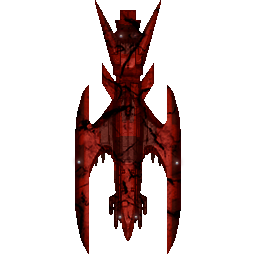
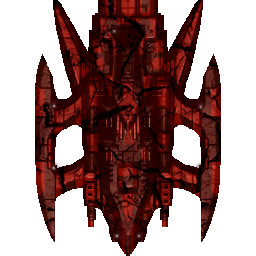
lvl 1 under construction

diff --git a/Level.py b/Level.py
@@ -12,7 +12,7 @@ warscreenwidth = 1440
 class Level:
     def __init__(self, levelnumber):
         if levelnumber == 0:
-            mobslist = [0,1,2,3,4,5,6,7,8,9,10,11,12,13,14,15]
+            mobslist = [0,1,2,3,4,5,6,7,8,9,10,11,12,13,14,15,16]
             Mobs.images.load_level(mobslist)
             self.end = False
             self.succes = False
@@ -97,15 +97,15 @@ class Level:
             self.textlist.append([100, "Level 1: Jupiter", 30, (0,150,0), (160,40), (warscreenwidth/2,100), (800,50)])
             self.textlist.append([150, "WARNING: ASTERIOD STORM DETECTED", 30, (200, 0, 0), (100, 40), (warscreenwidth / 2, 150), (warscreenwidth, 50)])
             self.textlist.append([200, "WARNING: ENEMY SHIPS DETECTED", 30, (200, 0, 0), (100, 40), (warscreenwidth / 2, 200),(warscreenwidth, 50)])
+            self.textlist.append([18300, "WARNING: LARGE ENEMY SHIP DETECTED", 30, (200, 0, 0), (100, 40), (warscreenwidth / 2, 100),(warscreenwidth, 50)])
+            self.textlist.append([18600, "SCANNING...", 30, (255, 255, 255), (100, 40), (warscreenwidth / 2, 50), (warscreenwidth, 100)])
+            self.textlist.append([18800, "SCORCH COMMAND SHIP: HEXAPOD", 30, (255, 255, 255), (100, 40), (warscreenwidth / 2, 100),(warscreenwidth, 50)])
 
             self.propslist.append([5000, 0, 900, 1, (540,767)])
             self.propslist.append([5500, 1, 600, 2, (675, 675)])
             self.propslist.append([9000, 2, 200, 2, (518, 520)])
             self.propslist.append([12000, 3, 800, 1, (240, 97)])
 
-
-            # Cruiser komt in scherm, opend vuur. stopt vuur, straved weg.
-          #  self.spawnlist.append([50, 13, warscreenwidth/2, 0, 0, 5, [(0, 0), (60,3,0,0), (240,2)], [((20,70,240), 4, 0, 5, 20), (4,5, 330), (4,5, 30)], 0])
 
             # 500 ticks: eerste aanval: fighters (horizontaal naar links)
             self.spawnlist.append([500, 9, warscreenwidth, 200, -4, 0, [(0, 0)], [(100, 3, 0)],0])
@@ -239,6 +239,51 @@ class Level:
             self.spawnlist.append([13200, 15, 500,  0, 0,2, [(0, 0)], [(100, 1, 0)], 250])
             self.spawnlist.append([13300, 15, 200,  0, 0,2, [(0, 0)], [(100, 1, 0)], 250])
 
+            # 13500 ticks: eenentwintigste aanval: destroyer (verticaal)
+            self.spawnlist.append([13500, 14, warscreenwidth/2, 0, 0, 2, [(0, 0)], [(100, 4, 0,3,15)], 350])
+
+            # 13900 ticks: tweeentwintigste aanval: fighters (driveby)
+            # en vultures (horizontaal naar rechts)
+            # en marauders (move, stop, charge, retreat)
+            # en cruiser (verticaal)
+            # en destroyers (verticaal)
+            self.spawnlist.append([13900, 9, 1400, 0, -2, 2, [(0,0)], [(100,3,0)],0])
+            self.spawnlist.append([13930, 9, 50, 0, 2, 2, [(0,0)], [(100,3,0)],0])
+            self.spawnlist.append([13960, 9, 400, 0, 2, 2, [(0, 0)], [(100, 3, 0)], 0])
+            self.spawnlist.append([13990, 9, 1300, 0, -2, 2, [(0, 0)], [(100, 3, 0)], 0])
+            self.spawnlist.append([14020, 9, 160, 0, 2, 2, [(0, 0)], [(100, 3, 0)], 0])
+            self.spawnlist.append([14050, 9, 800, 0, -2, 2, [(0, 0)], [(100, 3, 0)], 0])
+            self.spawnlist.append([14300, 15, 0, 200, 2, 0, [(0, 0)], [(100, 1, 0)], 0])
+            self.spawnlist.append([14400, 15, 0, 175, 2, 0, [(0, 0)], [(100, 1, 0)], 0])
+            self.spawnlist.append([14500, 15, 0, 150, 2, 0, [(0, 0)], [(100, 1, 0)], 0])
+            self.spawnlist.append([14600, 15, 0, 125, 2, 0, [(0, 0)], [(100, 1, 0)], 250])
+            self.spawnlist.append([14900, 11, 100, 0, 0, 4, [(0, 0), (40, 3, 0, 0), (100, 4), (178, 3, 0, -7)], [(100, 2, 0), [3, 5, -1]],0])
+            self.spawnlist.append([15200, 11, warscreenwidth/2, 0, 0, 4, [(0, 0), (40, 3, 0, 0), (100, 4), (178, 3, 0, -7)], [(100, 2, 0), [3, 5, -1]],300])
+            self.spawnlist.append([15600, 10, 850, 0, 0, 1, [(0, 0), (0, 0)], [(40, 2, 0)], 500])
+            self.spawnlist.append([16000, 14, 300, 0, 0, 2, [(0, 0)], [(100, 4, 0, 3, 15)], 0])
+            self.spawnlist.append([16300, 14, 1000, 0, 0, 2, [(0, 0)], [(100, 4, 0, 3, 15)], 350])
+
+            # 16700 ticks: drieentwintigste aanval: fighters (verticaal)
+            self.spawnlist.append([16700, 9, 700, 0, 0, 2, [(0, 0)], [(100, 3, 0)], 0])
+            self.spawnlist.append([16750, 9, 700, 0, 0, 2, [(0, 0)], [(100, 3, 0)], 0])
+            self.spawnlist.append([16750, 9, 600, 0, 0, 2, [(0, 0)], [(100, 3, 0)], 0])
+            self.spawnlist.append([16750, 9, 800, 0, 0, 2, [(0, 0)], [(100, 3, 0)], 0])
+            self.spawnlist.append([16800, 9, 700, 0, 0, 2, [(0, 0)], [(100, 3, 0)], 200])
+            self.spawnlist.append([16800, 9, 600, 0, 0, 2, [(0, 0)], [(100, 3, 0)], 0])
+            self.spawnlist.append([16800, 9, 800, 0, 0, 2, [(0, 0)], [(100, 3, 0)], 0])
+            self.spawnlist.append([16800, 9, 500, 0, 0, 2, [(0, 0)], [(100, 3, 0)], 0])
+            self.spawnlist.append([16800, 9, 900, 0, 0, 2, [(0, 0)], [(100, 3, 0)], 0])
+
+            # 17300 ticks: vierentwintigste aanval: vultures (move, strafe)
+            # en destroyer (naar rechts)
+            self.spawnlist.append([17300, 15, 750, 0, 0, 2, [(0, 0), (40, 2)], [(100, 1, 0)], 0])
+            self.spawnlist.append([17400, 15, 500, 0, 0, 2, [(0, 0), (40, 2)], [(100, 1, 0)], 0])
+            self.spawnlist.append([17500, 15, 1000, 0, 0, 2, [(0, 0), (40, 2)], [(100, 1, 0)], 0])
+            self.spawnlist.append([17600, 15, 500, 0, 0, 2, [(0, 0), (40, 2)], [(100, 1, 0)], 250])
+            self.spawnlist.append([17650, 14, 250, 0, 0, 2, [(0, 0)], [(100, 4, 0, 3, 15)], 350])
+
+            # 18300 ticks: aankondiging + eindbaas: Hexapod (zigzag)
+            self.spawnlist.append([19000, 12, 320, 0, 0, 6, [(0, 0), (60, 3, 0, 0), (150, 1)], [(100, 4, 0, 6, 15), (60, 1, 1)], 1000])
 
 
 
@@ -310,7 +355,7 @@ class Level:
            # self.spawnlist.append([5200, 12, 320, 0, 0, 6, [(0, 0), (60, 3,0,0), (150,1)], [(100, 4, 0, 6, 15), (60,1,1)], 1000])
 
             #level end
-            self.spawnlist.append([18000, -1])
+            self.spawnlist.append([30000, -1])
 
             ###################################################################################################
             #lijst wordt gesorteerd om op volgorde uit te kunnen voeren.

diff --git a/Mobs.py b/Mobs.py
@@ -15,11 +15,11 @@ warscreenwidth = 1440
 warscreenheight = 1080
 class Unitstats:
     def __init__(self):
-        self.deathsound = [0,0,0,2,2,2,5,5,5,3,6,4,9,7,8,4]
-        self.hitpoints = [10,10,10,30,30,30,60,60,60,40,350,140,1000,500, 650, 80]
-        self.gold = [0, 0, 0, 0, 0, 0, 0, 0, 0, 100, 800, 400, 2500, 1200, 1500, 200]
-        self.pointvalue = [50,50,50,100,100,100,200,200,200,400,1500,800,5000, 2000, 2500, 500]
-        self.explosion = [4,4,4,1,1,1,9,9,9,10,11,9,11,11,11,10]
+        self.deathsound = [0,0,0,2,2,2,5,5,5,3,6,4,9,7,8,4,9]
+        self.hitpoints = [10,10,10,30,30,30,60,60,60,40,350,140,1000,200, 230, 80,80]
+        self.gold = [0, 0, 0, 0, 0, 0, 0, 0, 0, 100, 800, 400, 2500, 400, 1500, 200,10]
+        self.pointvalue = [50,50,50,100,100,100,200,200,200,400,1500,800,5000, 2000, 2500, 500,100]
+        self.explosion = [4,4,4,1,1,1,9,9,9,10,11,9,11,10,11,10,10]
 
 class Mobsloading:
     def __init__(self):
@@ -28,7 +28,7 @@ class Mobsloading:
         for damagestate in range(3):
             imagenames = []
             hitimagenames = []
-            for index in range(16):
+            for index in range(17):
                 imagenames.append("normal_" + str(index) + '_' + str(damagestate) + ".png")
                 hitimagenames.append("hit_" + str(index) + '_' + str(damagestate) + ".png")
             self.imagenames.append(imagenames)
